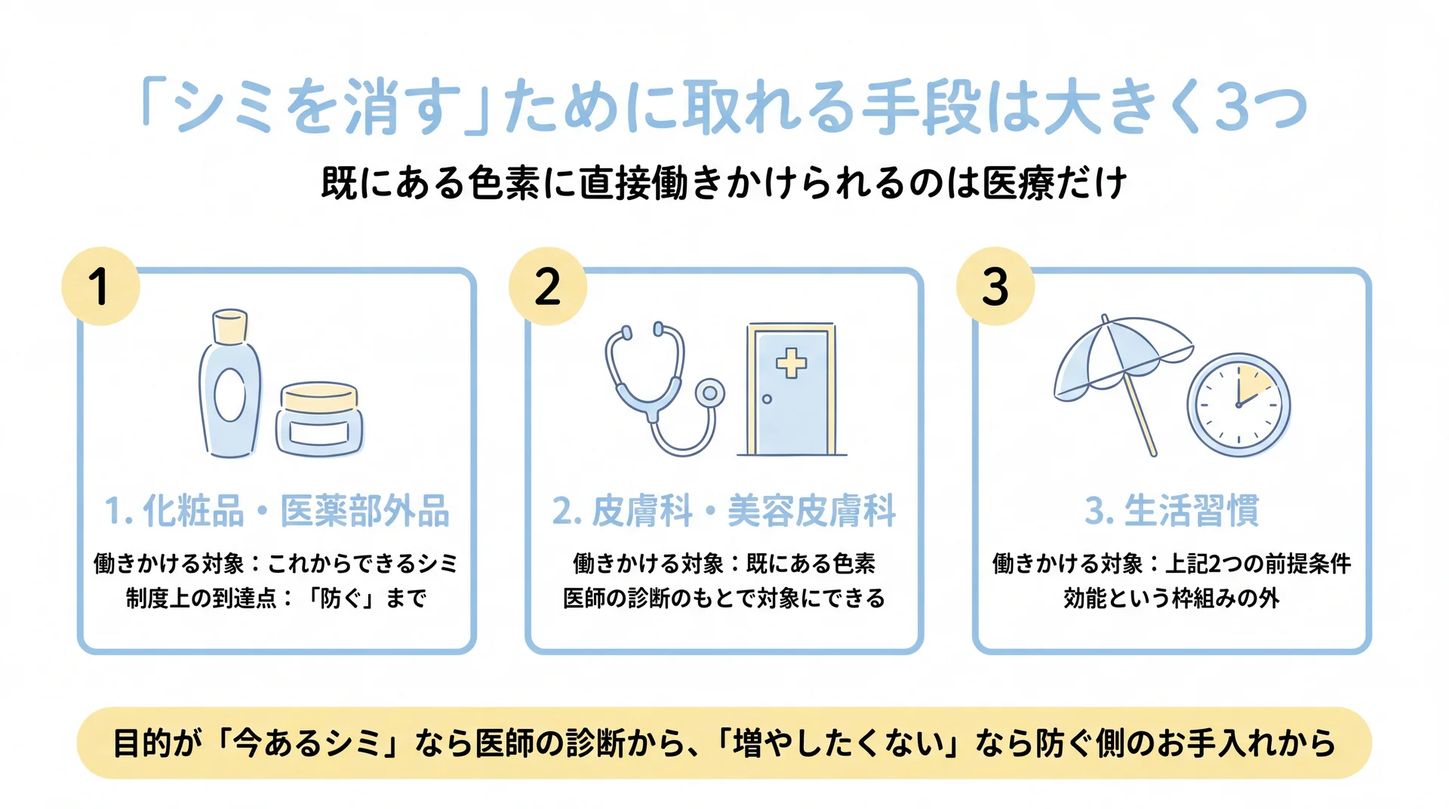
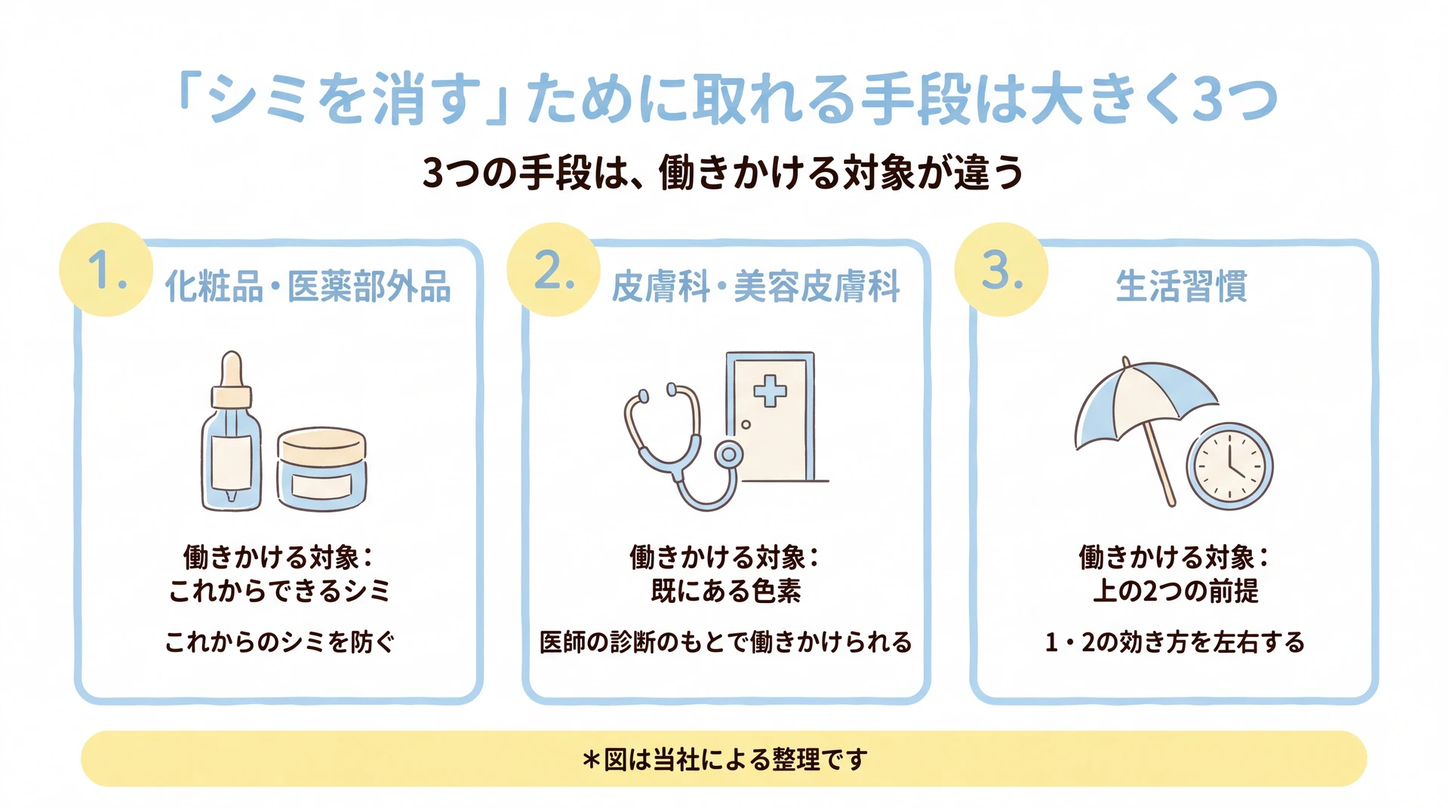
publish: orbis-amber-spot-care

Changed region(s): [[0.0312, 0.2771, 0.9688, 0.9851], [0.0938, 0.0924, 0.9062, 0.2463]]

diff --git a/2026/08/orbis-amber-spot-care.html b/2026/08/orbis-amber-spot-care.html
@@ -58,7 +58,7 @@
 <p style="margin:14px 0; line-height:1.7;">「シミを消す」ために取れる手段は、化粧品・医薬部外品、皮膚科・美容皮膚科、生活習慣の3つに分かれます。このうち既にある色素へ直接働きかけられるのは医療の領域です。医療機関の記事と化粧品の記事で答えが食い違って見えるのは、書き手の立場が分かれているためです。3つを同じ軸に並べ、選ぶ基準まで整理します。</p>
 <p style="margin:14px 0; line-height:1.7;"><img src="https://shun-toda.github.io/html-publish/2026/08/orbis-amber-spot-care/kv_amber_%E8%B3%A2%E3%81%8F%E3%83%A9%E3%82%AF%E3%81%AB.webp" alt="オルビスアンバーシリーズのブランドビジュアル。琥珀色の背景に洗顔料・美容液・クリーム・BBクリームが並ぶ" loading="lazy" style="max-width:100%; height:auto; display:block; margin:16px auto; border-radius:6px;" /></p>
 <h2 style="font-size:24px; font-weight:600; margin:32px 0 16px; padding-bottom:8px; border-bottom:1px solid #eaeef2; line-height:1.3;">「シミを消す」ために取れる手段は大きく3つ</h2>
-<p style="margin:14px 0; line-height:1.7;"><img src="https://shun-toda.github.io/html-publish/2026/08/orbis-amber-spot-care/h2_01_%E6%89%8B%E6%AE%B5_3%E3%81%A4.webp" alt="化粧品・医薬部外品／皮膚科・美容皮膚科／生活習慣の3手段を働きかける対象と制度上の到達点で分類した図" loading="lazy" style="max-width:100%; height:auto; display:block; margin:16px auto; border-radius:6px;" /><br><em>既にある色素を対象にできるのは医療のみで、化粧品側の到達点は「防ぐ」まで（出典: 厚生労働省 薬食発0721第1号を基に当社作成）</em></p>
+<p style="margin:14px 0; line-height:1.7;"><img src="https://shun-toda.github.io/html-publish/2026/08/orbis-amber-spot-care/h2_01_%E6%89%8B%E6%AE%B5_3%E3%81%A4.webp" alt="化粧品・医薬部外品／皮膚科・美容皮膚科／生活習慣の3手段を働きかける対象別に分類した図" loading="lazy" style="max-width:100%; height:auto; display:block; margin:16px auto; border-radius:6px;" /><br><em>既にある色素に働きかけられるのは医療で、化粧品・医薬部外品が担うのはこれからのシミを防ぐ側（＊図は当社による整理です）</em></p>
 <p style="margin:14px 0; line-height:1.7;">シミを消す手段は、化粧品・医薬部外品、皮膚科・美容皮膚科、生活習慣の3つに分かれます。3つは優劣ではなく働きかける対象が違っており、既にある色素に直接触れられるのは医療、これからのシミを防ぐ側を担うのが化粧品と医薬部外品、その両方の効き方を左右するのが生活習慣という関係です。</p>
 <p style="margin:14px 0; line-height:1.7;">シミ対策の情報が食い違って見えるのは、解説の書き手が医療機関側と化粧品側に分かれているためです。医療機関のページでは化粧品でできることが短く切り上げられ、化粧品を扱う記事では医療という選択肢そのものに触れられないこともあります。結果として同じ問いに正反対の答えが返り、どちらが正しいのかを判断できないまま検索を繰り返す状態になりがちです。</p>
 <p style="margin:14px 0; line-height:1.7;">当社のオルビス アンバー（ORBIS AMBER）は化粧品と医薬部外品を提供する立場ですが、自社に有利な手段だけを取り上げるのではなく、3つを同じ土俵に並べてお伝えします。手段の全体像をもう一段広く押さえたい場合は、<a href="/column/shimi-taisaku/" style="color:#0969da; text-decoration:none; border-bottom:1px solid #eaeef2;">シミ対策の全体像をまとめたガイド</a>もあわせてご覧いただけます。</p>
@@ -66,24 +66,24 @@
 <p style="margin:14px 0; line-height:1.7;">3つを分ける最もわかりやすい線は、<strong>既にある色素を扱うのか、これからできるものを扱うのか</strong>という点です。医療で行われる処置は前者に、化粧品・医薬部外品でのお手入れは後者に位置づけられます。生活習慣はどちらか一方ではなく、両方の前提になる条件です。</p>
 <p style="margin:14px 0; line-height:1.7;">この線引きを先に引いておくと、手段選びの迷いは減りやすくなります。「今ある1つのシミを何とかしたい」のか、「これ以上増やしたくない」のかで、見ていただく手段が変わるためです。両方を望まれる場合は、役割の違う手段を重ねる形になります。</p>
 <p style="margin:14px 0; line-height:1.7;">なお、頬・こめかみ・鼻など出方の違いによる対処の考え方は、<a href="/column/kao-shimi-kesu-houhou/" style="color:#0969da; text-decoration:none; border-bottom:1px solid #eaeef2;">顔の部位別（頬・こめかみ・鼻）のシミ対処の違いの考え方</a>にまとめました。</p>
-<h2 style="font-size:24px; font-weight:600; margin:32px 0 16px; padding-bottom:8px; border-bottom:1px solid #eaeef2; line-height:1.3;">化粧品・医薬部外品で届くのは「防ぐ」側まで</h2>
-<p style="margin:14px 0; line-height:1.7;"><img src="https://shun-toda.github.io/html-publish/2026/08/orbis-amber-spot-care/h2_02_%E5%8A%B9%E8%83%BD_%E9%98%B2%E3%81%90%E3%81%BE%E3%81%A7.webp" alt="化粧品の効能56項目のうちシミに関わるのは(37)の1項目のみであることと医薬部外品の承認効能を示した図" loading="lazy" style="max-width:100%; height:auto; display:block; margin:16px auto; border-radius:6px;" /><br><em>シミに関わる効能は56項目中1項目のみで、医薬部外品でも表現は「防ぐ」側にとどまる（出典: 厚生労働省 薬食発0721第1号）</em></p>
-<p style="margin:14px 0; line-height:1.7;">化粧品と医薬部外品で届くのは、これからつくられるメラニンに働きかけて新しいシミを防ぐところまでです。既にある色素そのものへ直接働きかける手段は、この2つの区分には用意されていません。まずは実際に何が起きるのかから、届く範囲を整理します。</p>
+<h2 style="font-size:24px; font-weight:600; margin:32px 0 16px; padding-bottom:8px; border-bottom:1px solid #eaeef2; line-height:1.3;">化粧品・医薬部外品ができるのは、これからのシミを防ぐこと</h2>
+<p style="margin:14px 0; line-height:1.7;"><img src="https://shun-toda.github.io/html-publish/2026/08/orbis-amber-spot-care/h2_02_%E5%8A%B9%E8%83%BD_%E9%98%B2%E3%81%90%E3%81%BE%E3%81%A7.webp" alt="化粧品と医薬部外品はこれからつくられるメラニンに働きかけて新しいシミを防ぐ側を担い、既にある色素に働きかけられるのは医療であることを示した図" loading="lazy" style="max-width:100%; height:auto; display:block; margin:16px auto; border-radius:6px;" /><br><em>化粧品も医薬部外品も働きは「防ぐ」側で、既にある色素に働きかけられるのは医療（＊図は当社による整理です）</em></p>
+<p style="margin:14px 0; line-height:1.7;">化粧品と医薬部外品で届くのは、これからつくられるメラニンに働きかけて新しいシミを防ぐところまでです。既にある色素そのものへ直接働きかける手段は、化粧品にも医薬部外品にもありません。まずは実際に何が起きるのかから、届く範囲を整理します。</p>
 <h3 style="font-size:20px; font-weight:600; margin:24px 0 12px; line-height:1.3;">化粧品にできるのは「防ぐ」まで</h3>
 <p style="margin:14px 0; line-height:1.7;">化粧品で既にある色素を取り除くことはできません。化粧品でのお手入れが関われるのは、紫外線を受けた肌でこれからメラニンがつくられていく段階までで、すでに沈着した色素を分解したり排出を早めたりする働きは持たないためです。うるおいを与えて肌の状態を整えることと、日やけを防いでこれからの負荷を減らすことが、化粧品側の担当範囲になります。</p>
-<p style="margin:14px 0; line-height:1.7;">制度の面でも同じ線が引かれており、化粧品が商品説明で表示できる効能は通知の別表第1に定められた全56項目に限られ、シミに触れているのは「日やけによるシミ、ソバカスを防ぐ。」の1項目です（<a href="https://www.mhlw.go.jp/file/06-Seisakujouhou-11120000-Iyakushokuhinkyoku/kesyouhin_hanni_20111.pdf" style="color:#0969da; text-decoration:none; border-bottom:1px solid #eaeef2;">厚生労働省 薬食発0721第1号</a>）。当社はこの線を、化粧品側の到達点であると同時に<strong>期待値を合わせるための線</strong>だと捉えています。売り場やレビューで見かける表現がどれだけ強くても、化粧品に何を求めて選ぶのかを先に決めておくと、選び直しの遠回りを避けられます。</p>
+<p style="margin:14px 0; line-height:1.7;">当社はこの「防ぐまで」という線を、化粧品でできることの境目であると同時に<strong>期待値を合わせるための線</strong>だと捉えています。売り場やレビューで見かける表現がどれだけ強くても、化粧品に何を求めて選ぶのかを先に決めておくと、選び直しの遠回りを避けられます。</p>
 <h3 style="font-size:20px; font-weight:600; margin:24px 0 12px; line-height:1.3;">医薬部外品で加わるのは有効成分による「防ぐ」</h3>
-<p style="margin:14px 0; line-height:1.7;">化粧品より一段広い区分が、医薬部外品（薬用化粧品）です。この区分では、承認を受けた有効成分について定められた効能を表示できます。シミに関わる承認効能は「メラニンの生成を抑え、シミ・ソバカスを防ぐ」という表現で、やはり<strong>防ぐ側</strong>にあたります。既にある色素を取り除く効能が認められているわけではありません。</p>
+<p style="margin:14px 0; line-height:1.7;">医薬部外品（薬用化粧品）には、メラニンの生成を抑え、シミ・ソバカスを防ぐ働きをもつ有効成分を配合したものがあります。有効成分が加わっても、働きはやはり<strong>防ぐ側</strong>です。既にある色素を取り除くものではありません。</p>
 <p style="margin:14px 0; line-height:1.7;"><img src="https://shun-toda.github.io/html-publish/2026/08/orbis-amber-spot-care/amber_vital_treatment_cream.webp" alt="オルビスアンバー ヴァイタルトリートメントクリームの商品写真" loading="lazy" style="max-width:100%; height:auto; display:block; margin:16px auto; border-radius:6px;" /><br><em>ヴァイタルトリートメントクリーム（医薬部外品・50g・ボトル税込4,620円）</em></p>
-<p style="margin:14px 0; line-height:1.7;">当社のクリームはこの医薬部外品にあたり、有効成分としてナイアシンアミド※3を配合しています（<a href="https://www.orbis.co.jp/small/11010453/" style="color:#0969da; text-decoration:none; border-bottom:1px solid #eaeef2;">オルビス公式商品ページ</a>）。区分そのものの成り立ちは<a href="/column/iyakubugaihin-toha/" style="color:#0969da; text-decoration:none; border-bottom:1px solid #eaeef2;">医薬部外品の定義を整理した記事</a>で、自宅でのお手入れだけで進める場合の限界ラインは<a href="/column/shimi-kesu-self-care/" style="color:#0969da; text-decoration:none; border-bottom:1px solid #eaeef2;">セルフケアだけで進める場合の現実的な手順と限界ラインを整理した記事</a>で扱っています。</p>
+<p style="margin:14px 0; line-height:1.7;">当社のクリームはこの医薬部外品にあたり、有効成分としてナイアシンアミド※3を配合しています（<a href="https://www.orbis.co.jp/small/11010453/" style="color:#0969da; text-decoration:none; border-bottom:1px solid #eaeef2;">オルビス公式商品ページ</a>）。医薬部外品という言葉の意味は<a href="/column/iyakubugaihin-toha/" style="color:#0969da; text-decoration:none; border-bottom:1px solid #eaeef2;">医薬部外品の定義を整理した記事</a>で、自宅でのお手入れだけで進める場合の限界ラインは<a href="/column/shimi-kesu-self-care/" style="color:#0969da; text-decoration:none; border-bottom:1px solid #eaeef2;">セルフケアだけで進める場合の現実的な手順と限界ラインを整理した記事</a>で扱っています。</p>
 <p style="margin:14px 0; line-height:1.7;">※2 メラニンの生成を抑え、シミ・ソバカスを防ぐ<br>※3 シワ改善・美白※2有効成分</p>
 <h3 style="font-size:20px; font-weight:600; margin:24px 0 12px; line-height:1.3;">【オルビスの見解】提供者として先に線引きを示す理由</h3>
 <p style="margin:14px 0; line-height:1.7;">一般論として、化粧品で既にある色素を取り除くことはできません。<strong>そのため当社は、既にあるシミそのものを対象にしたい方には、化粧品ではなく医療という選択肢を先にお伝えするべきだと考えています。</strong>当社のアンバーシリーズが担うのは、これからのシミを防ぐ側※2と、そのお手入れを日々続けられる形にすることの2点です。</p>
-<p style="margin:14px 0; line-height:1.7;">この線引きが曖昧なまま化粧品を選ぶと、期待した変化が起きないまま数か月が過ぎ、結局どの手段にも踏み出せない状態になりかねません。目標を「取り除く」ではなく「薄く見せる」側に置いた場合にどこまで届くのかは、<a href="/column/shimi-usuku-suru/" style="color:#0969da; text-decoration:none; border-bottom:1px solid #eaeef2;">「薄くする」を目標にした場合の到達点をまとめた記事</a>にまとめました。</p>
+<p style="margin:14px 0; line-height:1.7;">この線引きが曖昧なまま化粧品を選ぶと、期待した変化が起きないまま数か月が過ぎ、結局どの手段にも踏み出せない状態になりかねません。目標を「取り除く」ではなく「薄く見せる」側に置いた場合にどこまで届くのかは、<a href="/column/shimi-usuku-suru/" style="color:#0969da; text-decoration:none; border-bottom:1px solid #eaeef2;">「薄くする」を目標にした場合にできることをまとめた記事</a>にまとめました。</p>
 <h2 style="font-size:24px; font-weight:600; margin:32px 0 16px; padding-bottom:8px; border-bottom:1px solid #eaeef2; line-height:1.3;">皮膚科・美容皮膚科は既にある色素を対象にできる</h2>
 <p style="margin:14px 0; line-height:1.7;">皮膚科・美容皮膚科では、既にある色素そのものを対象にした処置を医師の診断のもとで受けられます。ただし美容目的の施術は自由診療にあたり、費用も条件も医療機関ごとに設定されています。美容医療サービスに関する相談は2024年に10,744件、2025年に7,944件が全国の消費生活センター等からPIO-NET（全国消費生活情報ネットワークシステム）に登録されました（<a href="https://www.kokusen.go.jp/soudan_topics/data/biyo.html" style="color:#0969da; text-decoration:none; border-bottom:1px solid #eaeef2;">国民生活センター</a>）。</p>
 <h3 style="font-size:20px; font-weight:600; margin:24px 0 12px; line-height:1.3;">既にある色素に働きかけられるのは医療の領域</h3>
-<p style="margin:14px 0; line-height:1.7;">医療機関では、レーザーや光を用いた処置、外用薬や内服薬の処方など、複数のアプローチが用意されています。いずれも医師の診断を前提としたもので、化粧品の効能の範囲には含まれません。既にできたシミを対象にできるという一点で、他の2つとは性質が大きく異なります。</p>
+<p style="margin:14px 0; line-height:1.7;">医療機関では、レーザーや光を用いた処置、外用薬や内服薬の処方など、複数のアプローチが用意されています。いずれも医師の診断を前提としたもので、化粧品にはない働きです。既にできたシミを対象にできるという一点で、他の2つとは性質が大きく異なります。</p>
 <p style="margin:14px 0; line-height:1.7;">一方で、どの処置が適するかはシミの状態によって変わり、自己判断で決められるものではありません。当社は化粧品を提供する立場ですが、既にある色素を対象にしたい方にとっては、まず医師の診断を受けることが遠回りを避ける近道だと考えています。処置に踏み込むかどうかの判断材料は、<a href="/column/kao-shimi-toru/" style="color:#0969da; text-decoration:none; border-bottom:1px solid #eaeef2;">除去系の処置に進む場合の判断材料をまとめた記事</a>で扱っています。</p>
 <h3 style="font-size:20px; font-weight:600; margin:24px 0 12px; line-height:1.3;">受ける前に公的機関が挙げている4つの確認事項</h3>
 <p style="margin:14px 0; line-height:1.7;">消費者庁は、美容医療を受ける前に確認したい事項として次の4点を挙げています（<a href="https://www.caa.go.jp/policies/policy/consumer_policy/information/information_002/" style="color:#0969da; text-decoration:none; border-bottom:1px solid #eaeef2;">消費者庁</a>）。</p>
@@ -93,7 +93,7 @@
 <li style="margin:4px 0;">ほかの施術方法や選択肢の説明も受け、自分で選択したか</li>
 <li style="margin:4px 0;">その施術は「今すぐ」必要か</li>
 </ul>
-<p style="margin:14px 0; line-height:1.7;">当社が注目しているのは3つ目です。<strong>ほかの選択肢の説明を受けて自分で選んだかという確認は、この記事が扱っている「3つの手段を比べる」ことそのものにあたります。</strong>先ほどの相談件数も、施術の危険性ではなく、契約の進め方や広告の内容をめぐるやり取りが起きやすい領域であることを示す数字です。だからこそ、化粧品側の到達点まで知ったうえで医療を選ぶ流れに無理がありません。肌の状態そのものが気になる場合は、自己判断で手段を決める前に皮膚科医へご相談ください。</p>
+<p style="margin:14px 0; line-height:1.7;">当社が注目しているのは3つ目です。<strong>ほかの選択肢の説明を受けて自分で選んだかという確認は、この記事が扱っている「3つの手段を比べる」ことそのものにあたります。</strong>先ほどの相談件数も、施術の危険性ではなく、契約の進め方や広告の内容をめぐるやり取りが起きやすい領域であることを示す数字です。だからこそ、化粧品側でできることまで知ったうえで医療を選ぶ流れに無理がありません。肌の状態そのものが気になる場合は、自己判断で手段を決める前に皮膚科医へご相談ください。</p>
 <h2 style="font-size:24px; font-weight:600; margin:32px 0 16px; padding-bottom:8px; border-bottom:1px solid #eaeef2; line-height:1.3;">生活習慣が他の2つの効き方を左右する</h2>
 <p style="margin:14px 0; line-height:1.7;"><img src="https://shun-toda.github.io/html-publish/2026/08/orbis-amber-spot-care/h2_03_%E7%94%9F%E6%B4%BB%E7%BF%92%E6%85%A3_%E7%B4%AB%E5%A4%96%E7%B7%9A.webp" alt="夏の紫外線量は10〜14時の4時間に約70%が集中し、薄い雲や日陰でも一定量が届くことを示した図" loading="lazy" style="max-width:100%; height:auto; display:block; margin:16px auto; border-radius:6px;" /><br><em>紫外線対策は24時間の心がけではなく10〜14時の重点管理に置き換えられる（出典: 環境省 紫外線環境保健マニュアル2020）</em></p>
 <p style="margin:14px 0; line-height:1.7;">生活習慣は単独でシミを取り除く手段ではなく、他の2つの効き方を左右する前提にあたります。紫外線を浴び続ける状態のままでは、医療で処置を受けても防ぐ側のお手入れを固めても、条件は振り出しに戻りがちです。費用がほとんどかからない一方で、途切れた時点で前提そのものが崩れます。</p>
@@ -123,7 +123,7 @@
 </div>
 <!-- /wp:group --><h2 style="font-size:24px; font-weight:600; margin:32px 0 16px; padding-bottom:8px; border-bottom:1px solid #eaeef2; line-height:1.3;">3つの手段を5つの軸で比べる</h2>
 <p style="margin:14px 0; line-height:1.7;"><img src="https://shun-toda.github.io/html-publish/2026/08/orbis-amber-spot-care/h2_04_5%E8%BB%B8_%E8%B2%BB%E7%94%A8%E6%AF%94%E8%BC%83.webp" alt="定期便年6回の支払総額22,110円を1か月あたり約1,843円・1日あたり約61円に換算し医療の費用構造と並べた図" loading="lazy" style="max-width:100%; height:auto; display:block; margin:16px auto; border-radius:6px;" /><br><em>費用を1か月あたりに直すと、通院型と継続型を同じ物差しで比べられる（出典: 当社が公開している年間支払総額を基に当社換算）</em></p>
-<p style="margin:14px 0; line-height:1.7;">3つの手段は、働きかける対象・制度上の到達点・費用・時間・想定外のリスクの5軸で並べると違いが見えます。効果だけを並べても比べにくいのは、届く範囲と負担の種類が手段ごとに異なるためです。5軸に置き直すと、優劣ではなく向き不向きの問題だとわかります。</p>
+<p style="margin:14px 0; line-height:1.7;">3つの手段は、働きかける対象・届く範囲・費用・時間・想定外のリスクの5軸で並べると違いが見えます。効果だけを並べても比べにくいのは、届く範囲と負担の種類が手段ごとに異なるためです。5軸に置き直すと、優劣ではなく向き不向きの問題だとわかります。</p>
 <h3 style="font-size:20px; font-weight:600; margin:24px 0 12px; line-height:1.3;">5つの軸で並べる</h3>
 <div style="overflow-x:auto; margin:18px 0;"><table style="border-collapse:collapse; width:100%; font-size:14px;">
 <thead style="background:#f6f8fa;">
@@ -141,10 +141,10 @@
 <td style="border:1px solid #d0d7de; padding:8px 12px;">上記2つの前提条件</td>
 </tr>
 <tr>
-<td style="border:1px solid #d0d7de; padding:8px 12px;">制度上の到達点</td>
-<td style="border:1px solid #d0d7de; padding:8px 12px;">「防ぐ」まで</td>
-<td style="border:1px solid #d0d7de; padding:8px 12px;">医師の診断のもとで対象にできる</td>
-<td style="border:1px solid #d0d7de; padding:8px 12px;">効能という枠組みの外</td>
+<td style="border:1px solid #d0d7de; padding:8px 12px;">届く範囲</td>
+<td style="border:1px solid #d0d7de; padding:8px 12px;">これからのシミを「防ぐ」まで</td>
+<td style="border:1px solid #d0d7de; padding:8px 12px;">医師の診断のもとで既にある色素まで</td>
+<td style="border:1px solid #d0d7de; padding:8px 12px;">他の2つの効き方を支える</td>
 </tr>
 <tr>
 <td style="border:1px solid #d0d7de; padding:8px 12px;">費用の見方</td>
@@ -165,7 +165,7 @@
 <td style="border:1px solid #d0d7de; padding:8px 12px;">続かないと前提が崩れる</td>
 </tr>
 </tbody></table></div>
-<p style="margin:14px 0; line-height:1.7;">データ出典: 制度上の到達点＝<a href="https://www.mhlw.go.jp/file/06-Seisakujouhou-11120000-Iyakushokuhinkyoku/kesyouhin_hanni_20111.pdf" style="color:#0969da; text-decoration:none; border-bottom:1px solid #eaeef2;">厚生労働省 薬食発0721第1号</a>／リスク欄＝<a href="https://www.kokusen.go.jp/soudan_topics/data/biyo.html" style="color:#0969da; text-decoration:none; border-bottom:1px solid #eaeef2;">国民生活センター</a>・<a href="https://www.caa.go.jp/policies/policy/consumer_policy/information/information_002/" style="color:#0969da; text-decoration:none; border-bottom:1px solid #eaeef2;">消費者庁</a>／費用欄＝当社の公式商品ページ</p>
+<p style="margin:14px 0; line-height:1.7;">データ出典: リスク欄＝<a href="https://www.kokusen.go.jp/soudan_topics/data/biyo.html" style="color:#0969da; text-decoration:none; border-bottom:1px solid #eaeef2;">国民生活センター</a>・<a href="https://www.caa.go.jp/policies/policy/consumer_policy/information/information_002/" style="color:#0969da; text-decoration:none; border-bottom:1px solid #eaeef2;">消費者庁</a>／費用欄＝当社の公式商品ページ</p>
 <p style="margin:14px 0; line-height:1.7;">5軸を横に並べても、どれか1つが全面的に優れているという結論にはなりません。医療は既にある色素を対象にできる代わりに、通院時間と自由診療の費用が発生します。化粧品・医薬部外品は日々の時間に収まる代わりに、届く範囲は防ぐ側までです。この構造をふまえると、<strong>手段は「何を差し出せるか」で決まってきます。</strong>差し出せるものが費用なら医療、時間の積み重ねなら化粧品側と生活習慣、というのが素直な対応関係です。</p>
 <h3 style="font-size:20px; font-weight:600; margin:24px 0 12px; line-height:1.3;">費用は「1回」ではなく「続けた合計」で見る</h3>
 <p style="margin:14px 0; line-height:1.7;">費用を1回あたりの金額で比べると、実態がつかみにくくなります。医療の処置は回数に応じて費用が積み上がり、防ぐ側のお手入れは続けている期間だけ費用が発生するためです。比べるなら、同じ「1か月あたり」に直すと差が見えます。</p>
@@ -212,11 +212,11 @@
 <h3 style="font-size:20px; font-weight:600; margin:24px 0 12px; line-height:1.3;">シミ対策は化粧品と皮膚科のどちらから始めればよいですか</h3>
 <p style="margin:14px 0; line-height:1.7;">既にある色素そのものを対象にしたい場合は皮膚科、これ以上増やしたくない場合は化粧品・医薬部外品から始めるのが、対象の違いに沿った順番です。化粧品でのお手入れは既にある色素そのものへ働きかけられないため、そこを求めて化粧品から始めると期待とずれます。両方を望まれる場合は、診断を受けたうえで防ぐ側のお手入れを並行させるのが順当です。</p>
 <h3 style="font-size:20px; font-weight:600; margin:24px 0 12px; line-height:1.3;">市販の「飲む薬」はどの手段に含まれますか</h3>
-<p style="margin:14px 0; line-height:1.7;">シミ・そばかすに関する効能を持つ一般用医薬品は、化粧品・医薬部外品とは別の区分にあたり、薬局・ドラッグストアで購入できます。この記事の3分類では、医療機関での処置とは区別されるため、防ぐ側の手段と並べて検討する位置づけになります。服用にあたっては用法・用量と併用の可否があるため、薬剤師や登録販売者にご相談のうえでお選びください。</p>
+<p style="margin:14px 0; line-height:1.7;">シミ・そばかすに用いる一般用医薬品は、化粧品・医薬部外品とは別のもので、薬局・ドラッグストアで購入できます。この記事の3分類では、医療機関での処置とは区別されるため、防ぐ側の手段と並べて検討する位置づけになります。服用にあたっては用法・用量と併用の可否があるため、薬剤師や登録販売者にご相談のうえでお選びください。</p>
 <h3 style="font-size:20px; font-weight:600; margin:24px 0 12px; line-height:1.3;">化粧品でのお手入れと皮膚科の治療は併用できますか</h3>
 <p style="margin:14px 0; line-height:1.7;">3つの手段は排他ではなく、働きかける対象が違うため重ねる形が基本です。ただし処置を受けた前後にどのようなお手入れが適するかは、肌の状態と受けた処置によって変わります。自己判断で組み合わせを決めず、施術を受けた医療機関の医師にご確認ください。</p>
 <h3 style="font-size:20px; font-weight:600; margin:24px 0 12px; line-height:1.3;">オルビス アンバーでシミ対策はできますか</h3>
-<p style="margin:14px 0; line-height:1.7;">可能です。シリーズの中核であるヴァイタルトリートメントクリームは医薬部外品で、有効成分ナイアシンアミド※3を配合しています。承認された効能はシワを改善すること、およびメラニンの生成を抑えてシミ・ソバカスを防ぐことで、既にある色素を取り除くものではありません。まずは7日間体験セット（980円・税込）で、肌に合うかと工程が続く形かを確かめていただけます。</p>
+<p style="margin:14px 0; line-height:1.7;">可能です。シリーズの中核であるヴァイタルトリートメントクリームは医薬部外品で、有効成分ナイアシンアミド※3を配合しています。この有効成分の働きは、シワを改善すること、およびメラニンの生成を抑えてシミ・ソバカスを防ぐことで、既にある色素を取り除くものではありません。まずは7日間体験セット（980円・税込）で、肌に合うかと工程が続く形かを確かめていただけます。</p>
 <p style="margin:14px 0; line-height:1.7;">シミへの対処全体をもう一度俯瞰したい場合は、<a href="/column/shimi-taisaku/" style="color:#0969da; text-decoration:none; border-bottom:1px solid #eaeef2;">シミが取れる仕組みを整理した記事</a>もあわせてご覧いただけます。</p>
 <h2 style="font-size:24px; font-weight:600; margin:32px 0 16px; padding-bottom:8px; border-bottom:1px solid #eaeef2; line-height:1.3;">まとめ</h2>
 <p style="margin:14px 0; line-height:1.7;">シミを消したいときに取れる手段は3つで、既にある色素を対象にできるのは医療、これからを防ぐ側を担うのが化粧品と医薬部外品です。化粧品側が担えるのは「防ぐ」までで、既にある色素を取り除くことはできません。まずはシミの状態を確かめ、そのうえで費用・時間・許容できるリスクを足すと、候補は自然に絞れます。防ぐ側から始める方には、当社のクリームのように工程を1つに寄せた形が、続ける前提を保ちやすい選択肢です。</p>
